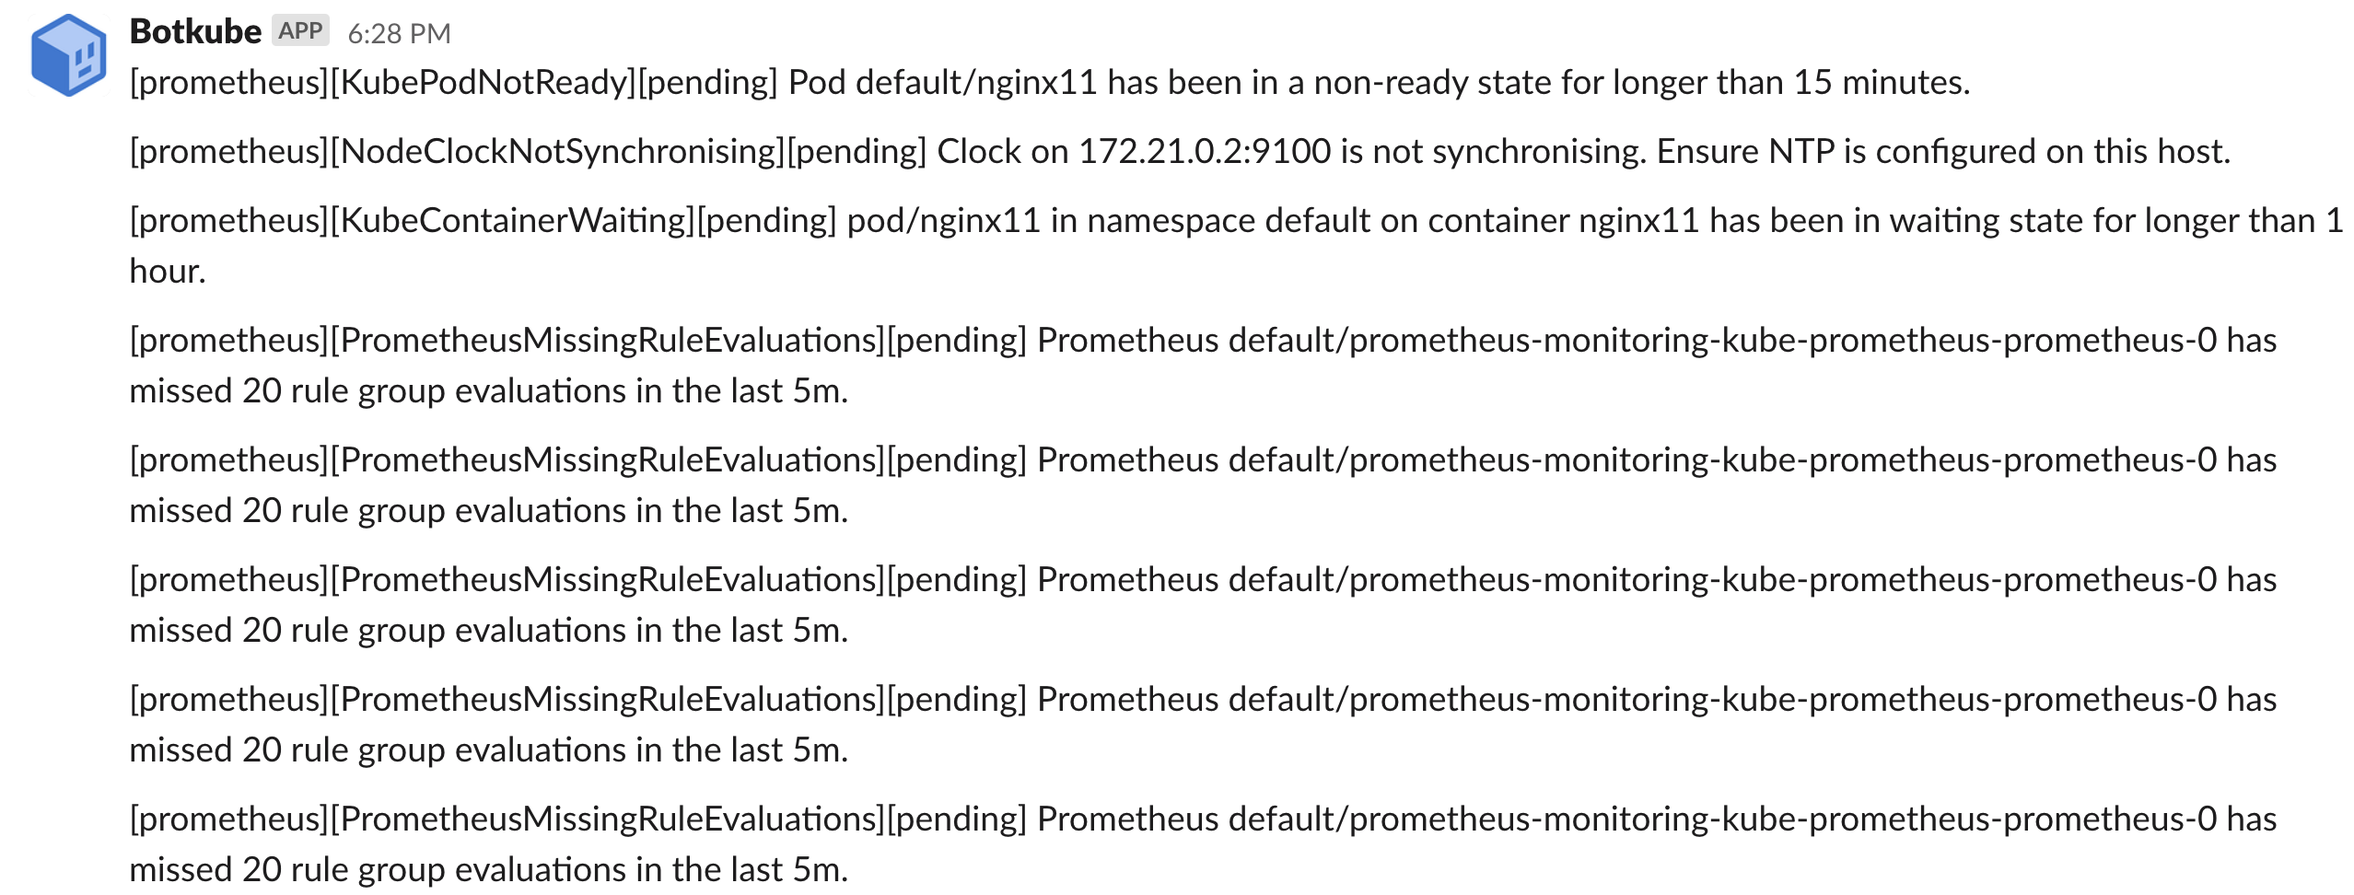
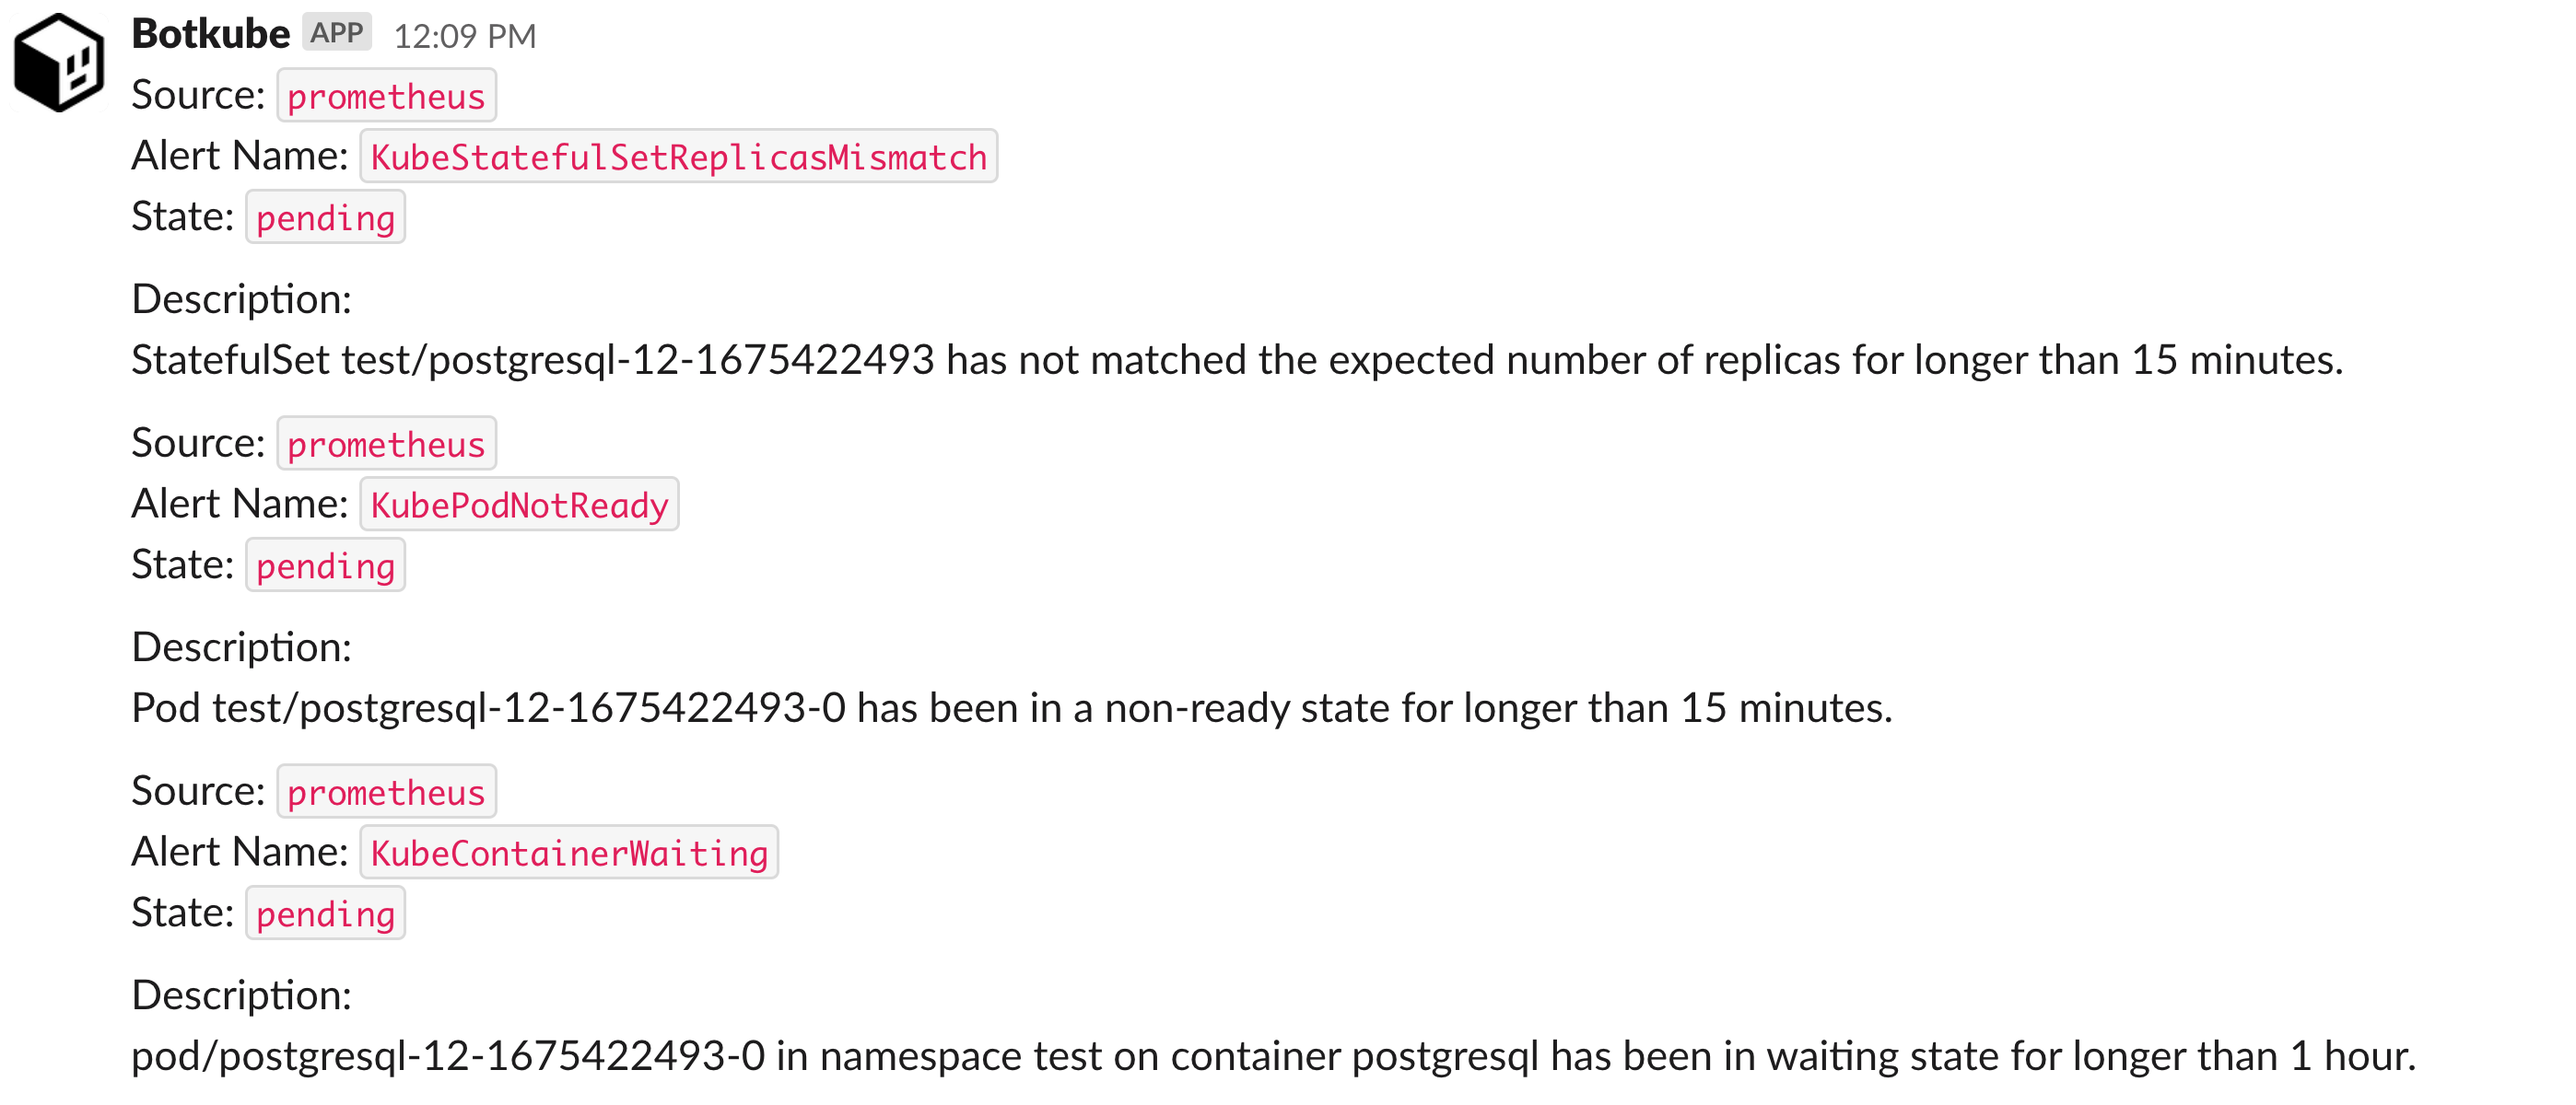
Update Prometheus screenshot (#210)

Changed region(s): [[0.0309, 0.3704, 0.9581, 0.8642], [0.0, 0.0, 1.0, 0.3395], [0.0309, 0.8951, 0.9581, 0.9877]]

diff --git a/docs/usage/source/prometheus.md b/docs/usage/source/prometheus.md
@@ -8,4 +8,4 @@ Botkube allows you to consume `prometheus` alerts on your Kubernetes cluster. By
 
 Once it is enabled, Botkube Prometheus plugin will consume Prometheus alerts and send them to configured platforms as shown below.
 
-![Prometheus Alerts](./assets/prometheus-alerts.png))
+![Prometheus Alerts](./assets/prometheus-alerts.png)

diff --git a/versioned_docs/version-0.18/usage/source/prometheus.md b/versioned_docs/version-0.18/usage/source/prometheus.md
@@ -8,4 +8,4 @@ Botkube allows you to consume `prometheus` alerts on your Kubernetes cluster. By
 
 Once it is enabled, Botkube Prometheus plugin will consume Prometheus alerts and send them to configured platforms as shown below.
 
-![Prometheus Alerts](./assets/prometheus-alerts.png))
+![Prometheus Alerts](./assets/prometheus-alerts.png)
